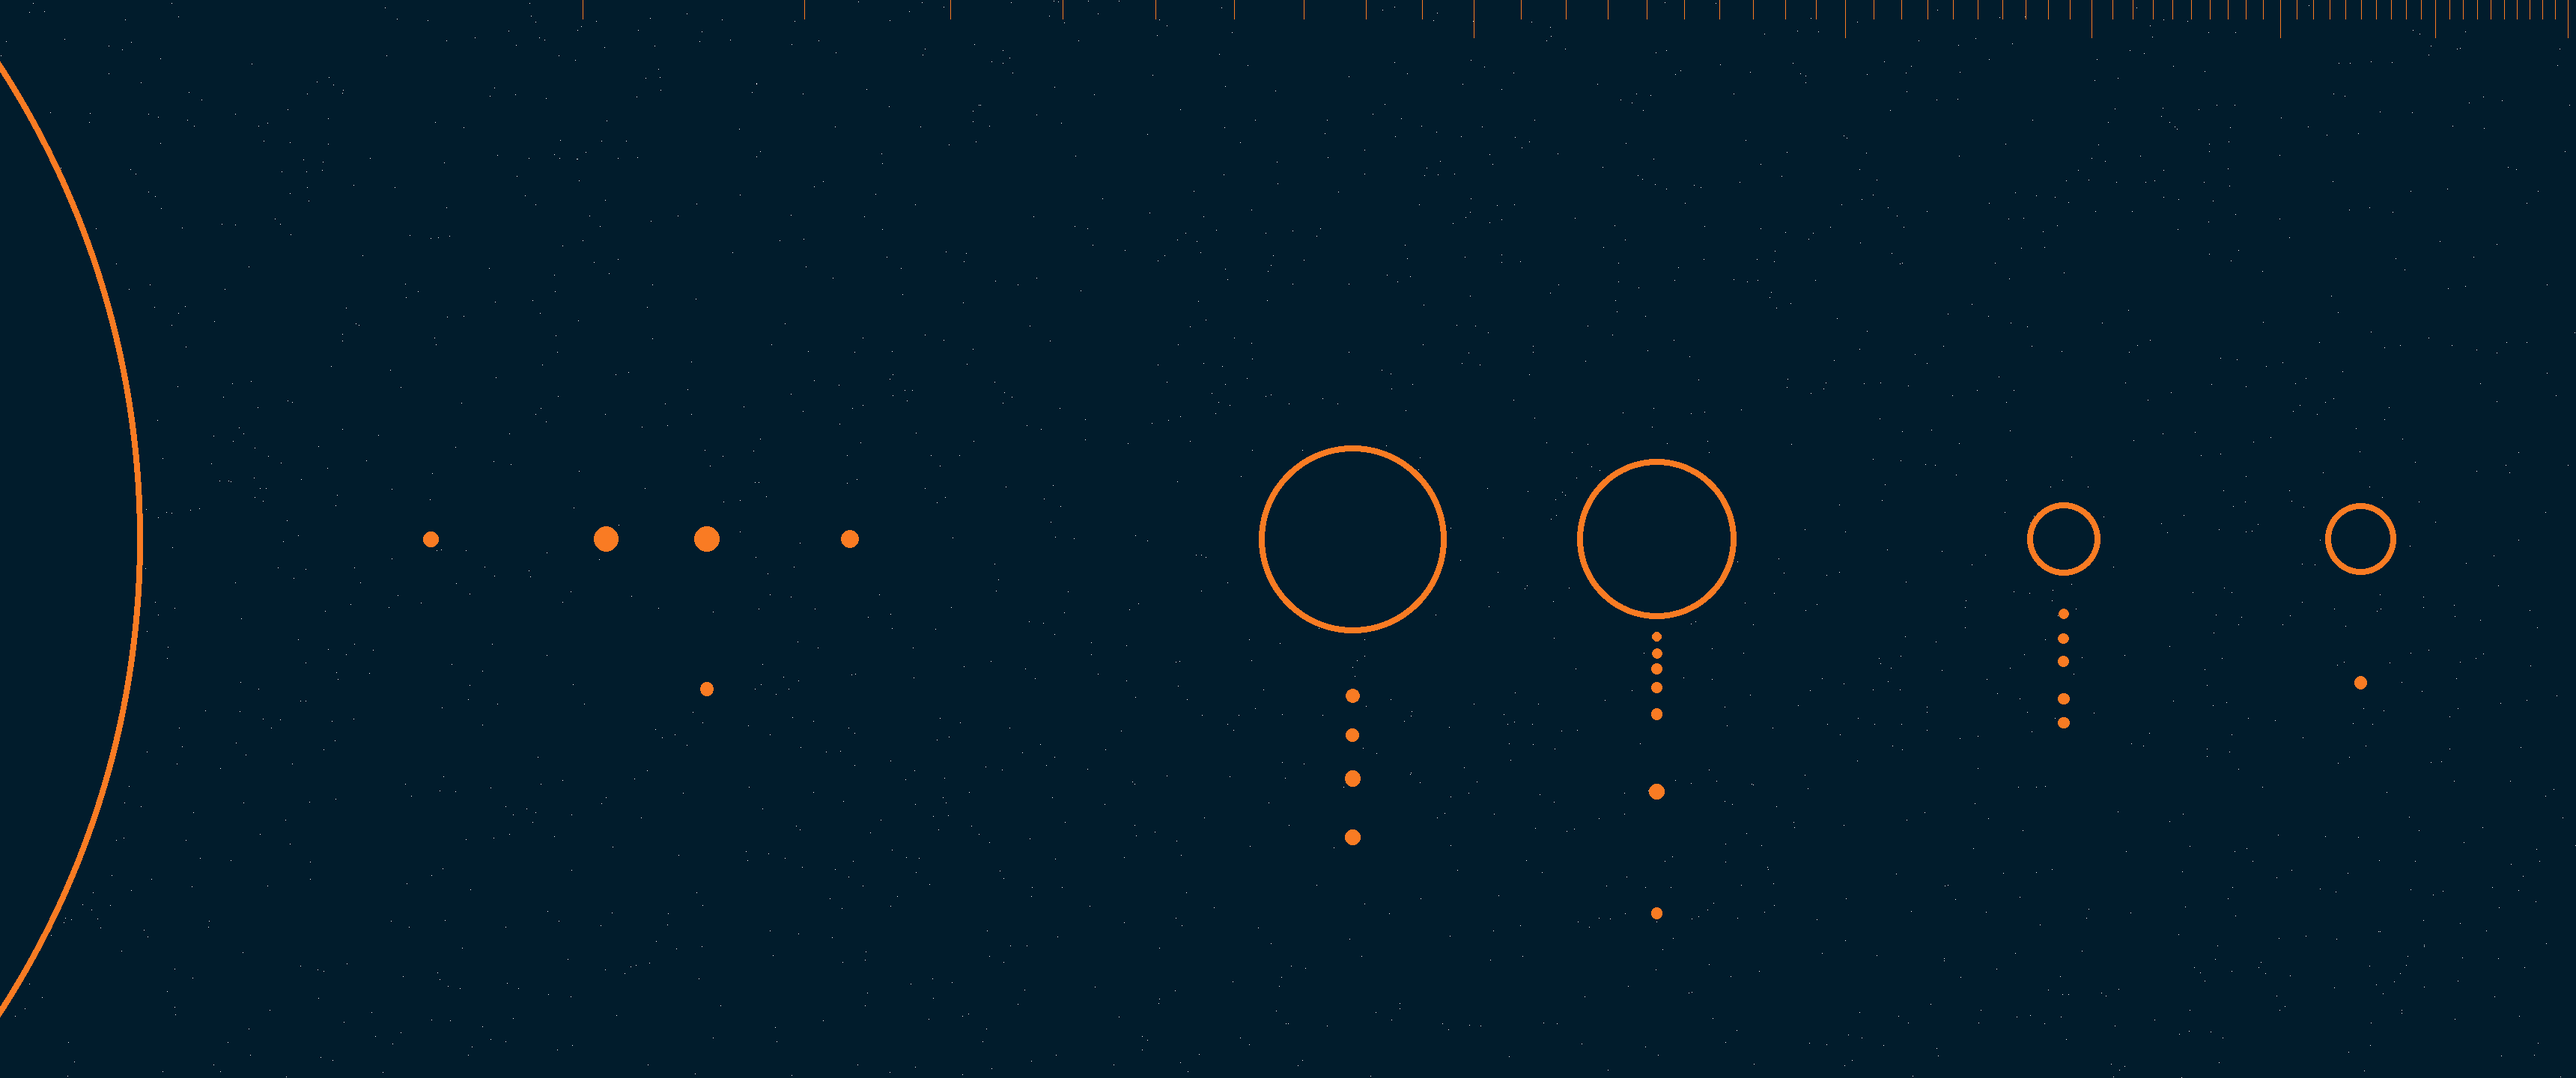
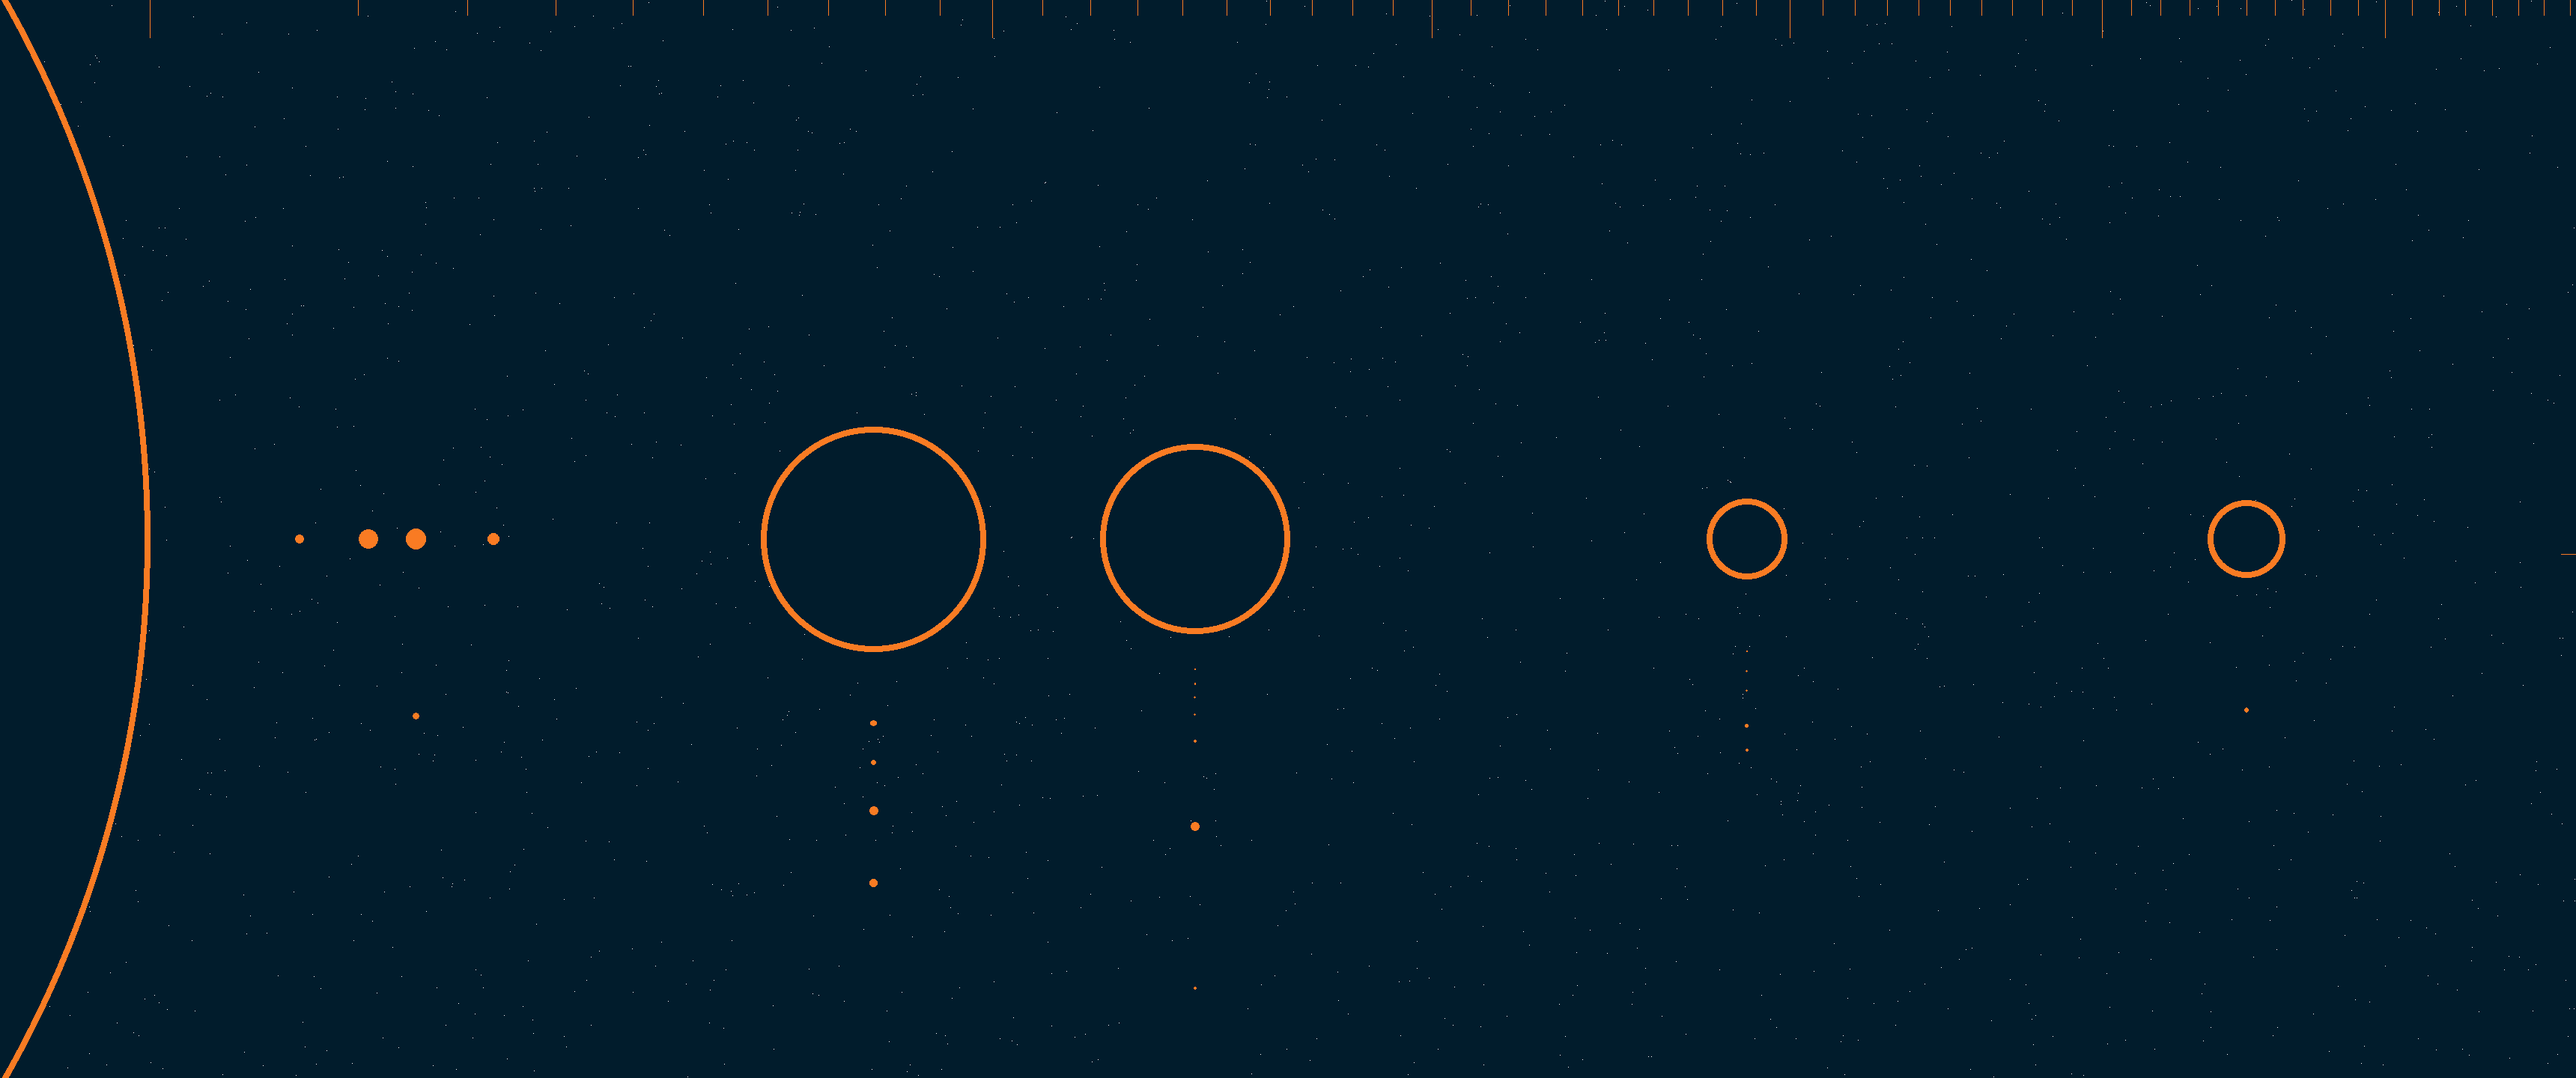
Added replacement file main.py instead of planets datastructure.py

diff --git a/main.py b/main.py
@@ -1,0 +1,182 @@
+#!/usr/bin/env python3
+import pandas as pd
+import matplotlib.pyplot as plt
+import numpy as np
+from PIL import Image, ImageDraw
+
+
+class WallpaperImage:
+    background = (1, 28, 44)
+    foreground = (249, 123, 35)
+
+    def __init__(self, image_width=3440, image_height=1440):
+        self.image_width = image_width
+        self.image_height = image_height
+        self.image = Image.new('RGBA', (image_width, image_height), WallpaperImage.background)
+
+    def add_stars(self, count):
+        # TODO: match actual stars and constellations
+        for i in range(count):
+            x = np.random.randint(0, self.image_width)
+            y = np.random.randint(0, self.image_height)
+            self.image.putpixel((x, y), (255, 255, 255))
+
+    def draw_circle(self, pixel_x, pixel_y, pixel_r, foreground=True):
+        if foreground == True:
+            color = WallpaperImage.foreground
+        else:
+            color = WallpaperImage.background
+
+        draw = ImageDraw.Draw(self.image)
+        bound = (
+            pixel_x - pixel_r,
+            pixel_y - pixel_r,
+            pixel_x + pixel_r,
+            pixel_y + pixel_r)
+        draw.ellipse(bound, fill=color, outline=color)
+
+    def draw_empty_circle(self, pixel_x, pixel_y, pixel_r, thickness):
+        self.draw_circle(pixel_x, pixel_y, pixel_r, True)
+        self.draw_circle(pixel_x, pixel_y, pixel_r - thickness, False)
+
+    def draw_scale_top(self, pixels_x, height_ones, height_tens):
+        draw = ImageDraw.Draw(self.image)
+        for i, pixel_x in enumerate(pixels_x):
+            if i%10 == 0:
+                draw.line((pixel_x, 0, pixel_x, height_tens), fill=WallpaperImage.foreground)
+            else:
+                draw.line((pixel_x, 0, pixel_x, height_ones), fill=WallpaperImage.foreground)
+
+    def draw_scale_right(self, pixels_y, height_ones, height_tens):
+        draw = ImageDraw.Draw(self.image)
+        for i, pixel_y in enumerate(pixels_y):
+            if i%10 == 0:
+                height = height_tens
+            else:
+                height = height_ones
+
+            draw.line((
+                self.image_width - height,
+                self.image_height/2 + pixel_y,
+                self.image_width,
+                self.image_height/2 + pixel_y), fill=WallpaperImage.foreground)
+            draw.line((
+                self.image_width - height,
+                self.image_height/2 - pixel_y,
+                self.image_width,
+                self.image_height/2 - pixel_y), fill=WallpaperImage.foreground)
+
+
+    def show(self):
+        self.image.show()
+
+    def save(self):
+        self.image.save('wallpaper.png')
+
+
+sun_radius = 696340
+df_planets = pd.read_csv('planets.csv')
+df_moons = pd.read_csv('moons.csv')
+
+df_planets.set_index("PLANET", inplace=True)
+df_moons.set_index("MOON", inplace=True)
+
+# list of tuples: (location x, location y, radius, solid)
+circles = [(0, 0, sun_radius, False)]
+
+for index, row in df_planets.iterrows():
+    location_x = row["DIST FROM SUN (km)"]
+    location_y = 0
+    radius = row["RADIUS (km)"]
+    solid = index in ("Mercury", "Venus", "Earth", "Mars")
+    circles.append((location_x, location_y, radius, solid))
+
+for index, row in df_moons.iterrows():
+    location_x = df_planets["DIST FROM SUN (km)"][row["PLANET"]]
+    location_y = row["DIST FROM PLANET (km)"]
+    radius = row["RADIUS (km)"]
+    circles.append((location_x, location_y, radius, True))
+
+""" calculate radius parameters """
+jupiter_radius_pixels = 150
+
+jupiter_radius = df_planets["RADIUS (km)"]["Jupiter"]
+sr = jupiter_radius_pixels / jupiter_radius
+
+""" calculate distance y parameters """
+max_moon_dist_pixels = 600
+min_moon_dist_pixels = 150
+
+# py = sy*np.power(y, ey)
+# s = ?
+# e = ?
+# py1 = s*np.power(y1, e)
+# py2 = s*np.power(y2, e)
+
+py1 = max_moon_dist_pixels
+py2 = min_moon_dist_pixels
+y1 = max(df_moons["DIST FROM PLANET (km)"])
+y2 = min(df_moons["DIST FROM PLANET (km)"])
+
+A = np.array([[1/np.log(y1), 1], [1/np.log(y2), 1]])
+b = np.array([[np.log(py1)/np.log(y1)], [np.log(py2)/np.log(y2)]])
+res = np.linalg.inv(A) @ b
+sy = np.exp(res[0][0])
+ey = res[1][0]
+
+""" calculate distance x parameters """
+sun_visibility_pixels = 200
+neptune_loc_pixels = 3000
+mercury_dist_pixels = 200 # distance from sun
+
+# px = dx + sx*np.power(x, ex)
+
+""" NOTE THIS IS A UNCONSISTENT CHANGE!!! """
+# dx = sun_visibility_pixels - sun_radius*sr
+dx = sun_visibility_pixels
+
+py1 = mercury_dist_pixels + sun_visibility_pixels - dx
+py2 = neptune_loc_pixels - dx
+y1 = df_planets["DIST FROM SUN (km)"]["Mercury"]
+y2 = df_planets["DIST FROM SUN (km)"]["Neptune"]
+
+A = np.array([[1/np.log(y1), 1], [1/np.log(y2), 1]])
+b = np.array([[np.log(py1)/np.log(y1)], [np.log(py2)/np.log(y2)]])
+res = np.linalg.inv(A) @ b
+sx = np.exp(res[0][0])
+ex = res[1][0]
+
+""" make image """
+image = WallpaperImage()
+image.add_stars(2000)
+for location_x, location_y, radius, solid in circles:
+    location_x_pixel = dx + sx*np.power(location_x, ex)
+    location_y_pixel = image.image_height/2 + sy*np.power(location_y, ey)
+    radius_pixel = sr*radius
+
+    """ NOTE THIS IS A UNCONSISTENT CHANGE!!! """
+    if location_x == 0:
+        location_x_pixel = sun_visibility_pixels - sun_radius*sr
+
+    if solid:
+        image.draw_circle(location_x_pixel, location_y_pixel, radius_pixel)
+    else:
+        image.draw_empty_circle(location_x_pixel, location_y_pixel, radius_pixel, 8)
+
+
+ones_x = 1e8
+location_max = np.power((3440 - dx)/sx, 1/ex)
+ints = np.arange(0, int(np.ceil(location_max/ones_x)))
+x_coords = dx + sx*np.power(ints*ones_x, ex)
+image.draw_scale_top(x_coords, 20, 50)
+
+# TODO: scale shouldn't be 2 times something right?
+ones_y = 2e5
+location_max = np.power(720/sy, 1/ey)
+ints = np.arange(0, int(np.ceil(location_max/ones_y)))
+y_coords = sy*np.power(ints*ones_y, ey)
+image.draw_scale_right(y_coords, 20, 50)
+
+
+image.show()
+image.save()
